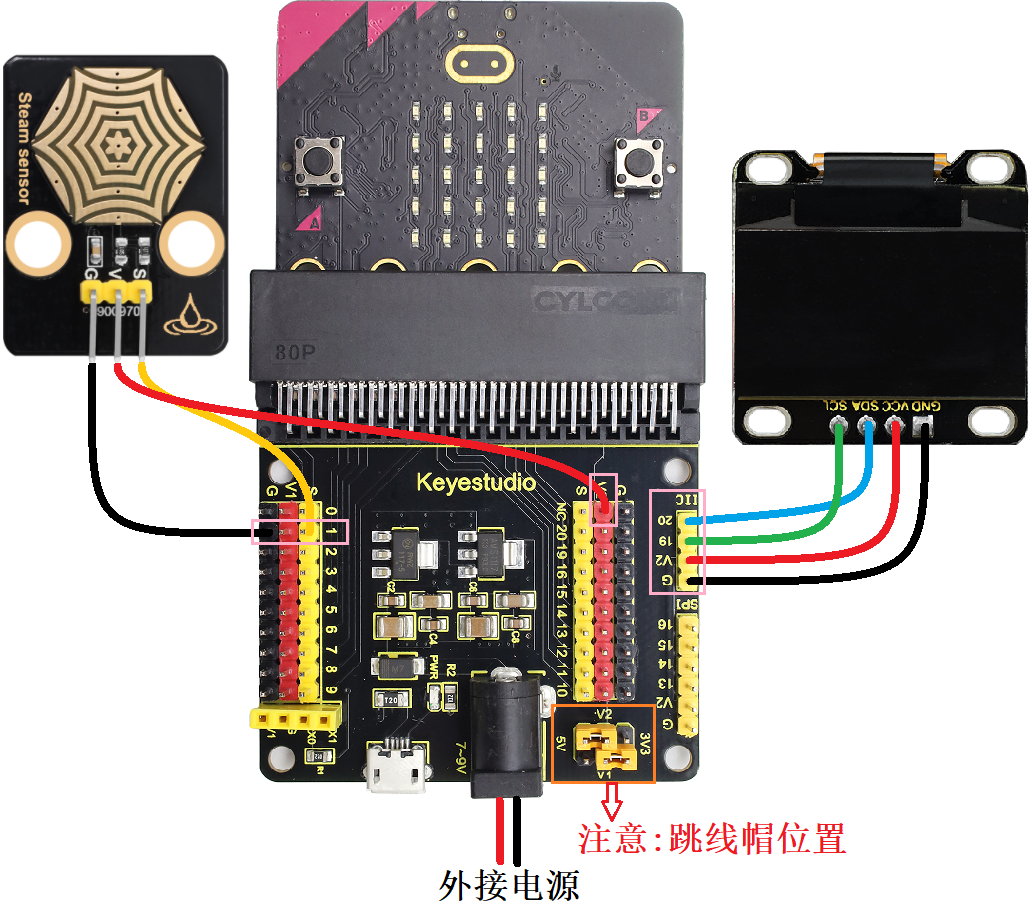
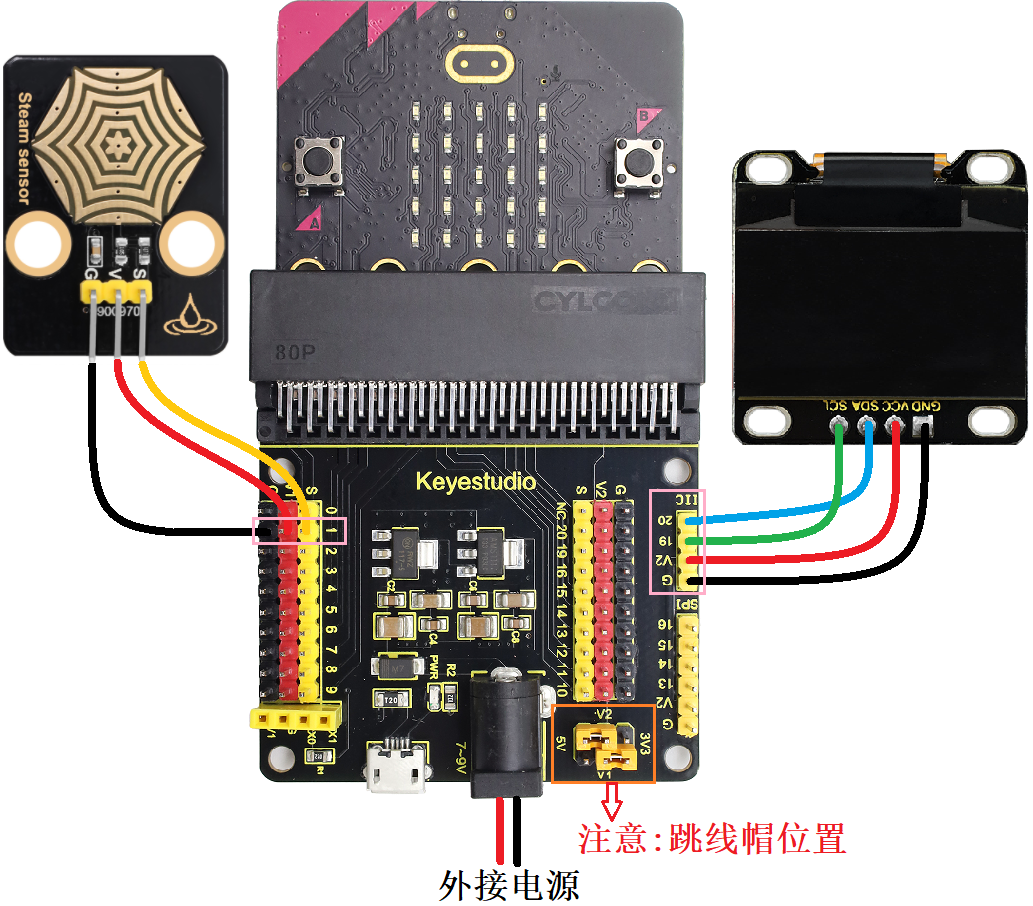
璧勬枡娴嬭瘯鏃堕棿2025年10月11日 周六 13:50:30.12

Changed region(s): [[0.0929, 0.4018, 0.6196, 0.6799], [0.5576, 0.4327, 0.6196, 0.4945]]

diff --git a/docs/MicroPython_教程/Projects/课程06.md b/docs/MicroPython_教程/Projects/课程06.md
@@ -246,7 +246,7 @@ def display_rain_info():
 percentage, status = display_rain_info()
 ```
 
-⑨ 这是if()...elif()...elif()...elif()...else的判断语句。
+⑨ 这是if()...elif()...elif()...elif()...else...的判断语句。
 
 如果检测到的雨水量强度大于等于10%小于20%时，Microbit主板上的5×5LED点阵屏显示图案![Img](./media/ab7.png)，同时Microbit主板上的扬声器发出C3低音警报声。
 
@@ -297,15 +297,15 @@ sleep(1000)  # Update every second
 
 ![Img](./media/4top.png)
 
-点击 “<span style="color: rgb(255, 76, 65);">Flash</span>” 按钮将示例代码下载到micro：bit主板。
+按照接线图接好线，利用micro USB数据线上电，同时还需要外接电源(6个AA电池安装到电池盒，保证电源充足)，然后点击 “<span style="color: rgb(255, 76, 65);">Flash</span>” 按钮将示例代码下载到micro：bit主板。
 
 ![Img](./media/A128.png)
 
-示例代码成功下载到micro:bit主板之后，利用micro USB数据线上电，同时还需要外接电源(6个AA电池安装到电池盒，保证电源充足)，然后按一下micro:bit主板上背面的复位按钮。
+示例代码成功下载到micro:bit主板之后，然后按一下micro:bit主板上背面的复位按钮。
 
 ![Img](./media/A455.png)
 
-OLED显示屏上会实时显示水滴传感器检测到的雨水量百分数，当检测到的雨水量百分数值大于等于10小于20时，Microbit主板上的5×5LED点阵屏显示图案![Img](./media/ab7.png)，同时Microbit主板上的扬声器发出C3低音警报声；
+OLED显示屏上会实时显示水滴传感器检测到的雨水量强度，当检测到的雨水量强度大于等于10%小于20%时，Microbit主板上的5×5LED点阵屏显示图案![Img](./media/ab7.png)，同时Microbit主板上的扬声器发出C3低音警报声；
 
 当检测到的雨水量强度大于等于20%小于40%时，Microbit主板上的5×5LED点阵屏显示图案![Img](./media/ab8.png)，同时Microbit主板上的扬声器发出C4中音警报声。
 

diff --git a/docs/MicroPython_教程/Projects/课程08.md b/docs/MicroPython_教程/Projects/课程08.md
@@ -271,15 +271,17 @@ else: # or
 
 ![Img](./media/4top.png)
 
-点击 “<span style="color: rgb(255, 76, 65);">Flash</span>” 按钮将示例代码下载到micro：bit主板。
+按照接线图接好线，利用micro USB数据线上电，同时还需要外接电源(6个AA电池安装到电池盒，保证电源充足)，然后点击 “<span style="color: rgb(255, 76, 65);">Flash</span>” 按钮将示例代码下载到micro：bit主板。
 
 ![Img](./media/A130.png)
 
-示例代码成功下载到micro:bit主板之后，利用micro USB数据线上电，同时还需要外接电源(6个AA电池安装到电池盒，保证电源充足)，然后按一下micro:bit主板上背面的复位按钮。
+示例代码成功下载到micro:bit主板之后，然后按一下micro:bit主板上背面的复位按钮。
 
 ![Img](./media/A455.png)
 
-室内扫地/点燃火柴/少量纸张安全燃烧(这种方法会产生明显的PM2.5粉尘颗粒)，PM2.5粉尘传感器检测空气中的PM2.5粉尘颗粒物，同时OLED显示屏上实时显示PM2.5粉尘浓度值；当PM2.5粉尘浓度值大于500ug/m3时，Microbit主板上的5×5LED点阵屏显示图案![Img](./media/ab2.png)，扬声器发出警报声，1s时间后启动雾化模块喷出水雾，达到降粉尘的作用；否则，5×5LED点阵屏显示图案![Img](./media/ab3.png)，扬声器不发声，雾化模块未启动。
+室内扫地/点燃火柴/少量纸张安全燃烧(这几种方法会产生明显的PM2.5粉尘颗粒)，PM2.5粉尘传感器检测空气中的PM2.5粉尘颗粒物，同时OLED显示屏上实时显示PM2.5粉尘浓度值。
+
+当PM2.5粉尘浓度值大于500ug/m3时，Microbit主板上的5×5LED点阵屏显示图案![Img](./media/ab2.png)，扬声器发出警报声，1s时间后启动雾化模块喷出水雾，达到降粉尘的作用；否则，5×5LED点阵屏显示图案![Img](./media/ab3.png)，扬声器不发声，雾化模块未启动。
 
 |OLED显示测试得到的数据| 空气质量对照 |
 | :--: | :--: |

diff --git a/docs/MakeCode_教程/Projects/课程06.md b/docs/MakeCode_教程/Projects/课程06.md
@@ -112,10 +112,12 @@
 
 ![Img](./media/4top.png)
 
+按照接线图接好线，利用micro USB数据线上电，同时还需要外接电源(6个AA电池安装到电池盒，保证电源充足)。
+
 下载示例代码，使用Windows 10 App下载示例代码只需单击 “下载” 按钮即可；使用浏览器下载示例代码则需要将下载的 “.hex” 文件发送到micro:bit主板。
 
-示例代码成功下载到micro:bit主板之后，利用micro USB数据线上电，同时还需要外接电源(6个AA电池安装到电池盒，保证电源充足)。
+将示例代码传成功下载到micro:bit主板后，OLED显示屏上会实时显示水滴传感器检测到的雨水量强度。
 
-OLED显示屏上会实时显示水滴传感器检测到的雨水量强度，当检测到的雨水量强度大于0小于60%时，Microbit主板上的5×5LED点阵屏显示图案![Img](./media/ab2.png)，同时Microbit主板上的扬声器发出低音警报声。当检测到的雨水量强度大于等于60%时，Microbit主板上的5×5LED点阵屏显示图案![Img](./media/ab5.png)，同时Microbit主板上的扬声器发出高音警报声。当未检测到任何雨水量时，Microbit主板上的5×5LED点阵屏显示图案![Img](./media/ab3.png)，扬声器也不发声。
+当检测到的雨水量强度大于0小于60%时，Microbit主板上的5×5LED点阵屏显示图案![Img](./media/ab2.png)，同时Microbit主板上的扬声器发出低音警报声。当检测到的雨水量强度大于等于60%时，Microbit主板上的5×5LED点阵屏显示图案![Img](./media/ab5.png)，同时Microbit主板上的扬声器发出高音警报声。当未检测到任何雨水量时，Microbit主板上的5×5LED点阵屏显示图案![Img](./media/ab3.png)，扬声器也不发声。
 
 ![Img](./media/4bottom.png)

diff --git a/docs/MakeCode_教程/Projects/课程11.md b/docs/MakeCode_教程/Projects/课程11.md
@@ -78,7 +78,7 @@
 
 ![Img](./media/cou42.png)
 
-② 读取光线强度，温度，噪音强度，雨水量强度和太阳光紫外线强度。
+② 读取光线强度，噪音强度，温度，太阳光紫外线强度，雨水量强度和PM2.5粉尘浓度值。
 
 ![Img](./media/cou43.png)
 
@@ -96,11 +96,11 @@
 
 ![Img](./media/4top.png)
 
+按照接线图接好线，利用micro USB数据线上电，同时还需要外接电源(6个AA电池安装到电池盒，保证电源充足)。
+
 下载示例代码，使用Windows 10 App下载示例代码只需单击 “下载” 按钮即可；使用浏览器下载示例代码则需要将下载的 “.hex” 文件发送到micro:bit主板。
 
-示例代码成功下载到micro:bit主板之后，利用micro USB数据线上电，同时还需要外接电源(6个AA电池安装到电池盒，保证电源充足)。
-
-读取Micro:bit主板内置传感器(例如：Micro:bit光线传感器，Micro:bit温度传感器和Micro:bit麦克风)及外接传感器(例如：PM2.5粉尘传感器、水滴传感器、火焰传感器和太阳光紫外线传感器)检测到的相关数据，并通过I2C接口的OLED显示屏进行实时、直观的显示。
+将示例代码传成功下载到micro:bit主板后，读取Micro:bit主板内置传感器(例如：Micro:bit光线传感器，Micro:bit温度传感器和Micro:bit麦克风)及外接传感器(例如：PM2.5粉尘传感器、水滴传感器、火焰传感器和太阳光紫外线传感器)检测到的相关数据，并通过I2C接口的OLED显示屏进行实时、直观的显示。
 
 ![Img](./media/4bottom.png)
 

diff --git a/docs/MicroPython_教程/Projects/课程01.md b/docs/MicroPython_教程/Projects/课程01.md
@@ -24,7 +24,7 @@ micro:bit主板上并没有温度传感器，它使用nRF52833应用处理器内
 
 OLED技术可以提供丰富的色彩表现、高对比度、广视角等优点。画面清晰生动，黑色表现尤其出色。OLED屏幕每个像素自发光，无需背光源，功耗相对较低。0.9寸OLED屏幕凭借其小尺寸、高分辨率(128*96像素)、低功耗等特点，非常适合嵌入式及可穿戴设备领域的应用。
 
-⚠ **特别提醒：** 我们这款OLED显示屏的SDA接口接到引脚P20，SCL接口接到引脚P19。
+⚠ **特别提醒：** 我们这款OLED显示屏的SDA接口是接到Micro:bit主板上的引脚P20，SCL接口接到Micro:bit主板上的引脚P19。
 
 **模块参数：**
 
@@ -191,11 +191,11 @@ sleep(1000)
 
 ![Img](./media/4top.png)
 
-点击 “<span style="color: rgb(255, 76, 65);">Flash</span>” 按钮将示例代码下载到micro：bit主板。
+按照接线图接好线，利用micro USB数据线上电，同时还需要外接电源(6个AA电池安装到电池盒，保证电源充足)，然后点击 “<span style="color: rgb(255, 76, 65);">Flash</span>” 按钮将示例代码下载到micro：bit主板。
 
 ![Img](./media/A123.png)
 
-示例代码成功下载到micro:bit主板之后，利用micro USB数据线上电，同时还需要外接电源(6个AA电池安装到电池盒，保证电源充足)，然后按一下micro:bit主板上背面的复位按钮。
+示例代码成功下载到micro:bit主板之后，然后按一下micro:bit主板上背面的复位按钮。
 
 ![Img](./media/A455.png)
 
